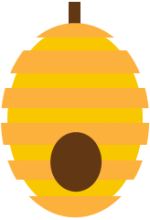
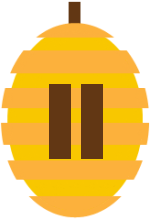
score bug improved and graphic improved :D we are almost done buddy

Changed region(s): [[0.32, 0.3818, 0.6933, 0.8727]]

diff --git a/app/src/main/java/it/polimi/game/model/MatchResult.java b/app/src/main/java/it/polimi/game/model/MatchResult.java
@@ -10,6 +10,7 @@ import it.polimi.game.persistence.PlayerDAO;
 public class MatchResult {
     private Player winner;
     private Player loser;
+    private Boolean isTie;
     private Integer winnerSeeds;
     private Integer looserSeeds;
     private Integer seedsPerBowl;
@@ -30,6 +31,7 @@ public class MatchResult {
         this.looserSeeds=0;
         this.bestMoveP1=0;
         this.bestMoveP2=0;
+        this.isTie=false;
         this.p1=p1;
         this.p2=p2;
         Calendar calendar = new GregorianCalendar();
@@ -37,26 +39,28 @@ public class MatchResult {
     }
 
     public void storeData(Player player, Integer seeds1, Integer seeds2){
-        this.winner=player;
-        this.loser=p1;
-        if(this.winner.equals(this.p1)) {
+        if(seeds1==seeds2){
+            //TIE
+            this.isTie=true;
+            this.winner=p1;
             this.loser=p2;
             this.winnerSeeds=seeds1;
             this.looserSeeds=seeds2;
-        }else{
-            if(this.winner.getId().equals(0)){
-                //TIE
-                this.winner=p1;
-                this.loser=p2;
-                this.winnerSeeds=seeds1;
-                this.looserSeeds=seeds2;
-                this.loser.incrementWins();
+            if(!Game.getInstance().getGh().getIsFastGame()) {
+                this.loser.incrementWins();}
             }else {
-                this.winnerSeeds = seeds2;
-                this.looserSeeds = seeds1;
-            }
+                this.winner=player;
+                this.loser=p1;
+                if (this.winner.equals(this.p1)) {
+                    this.loser = p2;
+                    this.winnerSeeds = seeds1;
+                    this.looserSeeds = seeds2;
+                } else {
+                    this.winnerSeeds = seeds2;
+                    this.looserSeeds = seeds1;
+                }
 
-        }
+            }
         this.winner.setLastGamePlayed(this.data);
         this.loser.setLastGamePlayed(this.data);
         HistoryHandler.getInstance().addGameHistory(new GameHistory(winner,loser,winnerSeeds,looserSeeds,data));
@@ -142,5 +146,13 @@ public class MatchResult {
 
     public void setData(Date data) {
         this.data = data;
+    }
+
+    public Boolean getIsTie() {
+        return isTie;
+    }
+
+    public void setIsTie(Boolean isTie) {
+        this.isTie = isTie;
     }
 }

diff --git a/app/src/main/java/it/polimi/game/model/GameHandler.java b/app/src/main/java/it/polimi/game/model/GameHandler.java
@@ -10,7 +10,6 @@ import java.util.List;
 
 import it.polimi.core.Assets;
 import it.polimi.core.GameMainActivity;
-import it.polimi.game.model.megabrain.LogicHandler;
 import it.polimi.game.model.megabrain.Megabrain;
 import it.polimi.game.model.megabrain.Turn;
 import it.polimi.game.persistence.PlayerDAO;
@@ -27,7 +26,6 @@ public class GameHandler {
     private Boolean isFastGame;
     private MatchResult matchResult;
     private static Integer MEGABRAIN=1;
-    public static Player TIE=new Player("TIE",0);
     private static Integer ISGAMEFINISHED=3;
     private static Integer ISMYTURNAGAIN=2;
     private static Integer PERFORMSTEAL=1;
@@ -229,7 +227,7 @@ public class GameHandler {
             this.setActivePlayer(p2);
         }
         this.matchResult=new MatchResult(initSeeds,p1,p2);
-        Game.getInstance().setAngleScreen(0);
+        Game.getInstance().initializateCoordinates();
     }
 
     private Boolean zeroSeeds(Player player){
@@ -265,12 +263,12 @@ public class GameHandler {
             this.setActivePlayer(this.getP1());
         }
         if(this.equals(Game.getInstance().getGh())){
-        if(Game.getInstance().getGh().getIsHH()){
-            if(!Game.getInstance().isTableMode())
-            {   Game.getInstance().setSwitchPlayer(true);
-               //Game.getInstance().changeAngles();
+            if(Game.getInstance().getGh().getIsHH()){
+                if(!Game.getInstance().isTableMode())
+                {  //this is to switch the player (rotation) in normal mode h vs h
+                    Game.getInstance().setSwitchPlayer(true);
+                }
             }
-        }
         }
     }
 
@@ -298,7 +296,7 @@ public class GameHandler {
             if(t2.getSeeds()>t1.getSeeds()){
                 win=this.getP2();
             }else{
-                win=this.TIE;
+                win=this.getP1();
             }
         }
         if(t2.getSeeds()+t1.getSeeds()!=(Game.getInstance().getnSeeds()*12)){

diff --git a/app/src/main/java/it/polimi/core/GameView.java b/app/src/main/java/it/polimi/core/GameView.java
@@ -105,13 +105,7 @@ public class GameView extends SurfaceView implements Runnable {
 		Canvas screen = getHolder().lockCanvas();
 		if (screen != null) {
 			screen.getClipBounds(gameImageDst);
-            /*if(Game.getInstance().getSwitchPlayer()) {
-                //Log.d("", "Rotate");
-                //Game.getInstance().changeAngleScreen();
-                Game.getInstance().setSwitchPlayer(false);
-            }*/
             screen.drawBitmap(gameImage, gameImageSrc, gameImageDst, null);
-            //screen.drawBitmap(Assets.rotate(gameImage,Game.getInstance().getAngleScreen()), gameImageSrc, gameImageDst, null);
 			getHolder().unlockCanvasAndPost(screen);
 		}
 	}

diff --git a/app/src/main/java/it/polimi/game/state/ScoreState.java b/app/src/main/java/it/polimi/game/state/ScoreState.java
@@ -32,8 +32,11 @@ public class ScoreState extends State {
         g.setColor(Color.WHITE);
         g.setFont(Typeface.DEFAULT_BOLD, 100);
         String winner=Game.getInstance().getGh().getMatchResult().getWinner().getName();
-        if(!winner.equals("TIE"))
-        g.drawString("The winner is:", 540, 650);
+        if(!Game.getInstance().getGh().getMatchResult().getIsTie()){
+            g.drawString("The winner is:", 540, 650);}
+        else{
+            winner="TIE";
+        }
         g.setFont(Typeface.DEFAULT_BOLD, 140);
         g.drawString(winner, 1040, 820);
         g.setFont(Typeface.DEFAULT_BOLD, 100);

diff --git a/app/src/main/java/it/polimi/game/model/Game.java b/app/src/main/java/it/polimi/game/model/Game.java
@@ -38,14 +38,18 @@ public class Game {
     private int angleScreen;
 
     protected Game() {
-        switchPlayer=false;
-        angleScreen=0;
         seeds=new ArrayList<Seed>();
         playable=true;
         assets = null;
         this.gh=null;
         gameActivity=null;
         menuActivity= null;
+        this.initializateCoordinates();
+    }
+
+    public void initializateCoordinates(){
+        switchPlayer=false;
+        angleScreen=0;
         xBee1=1426;yBee1=475;
         xBee2=244;yBee2=475;
         xNames= new Integer[]{1085,585};
